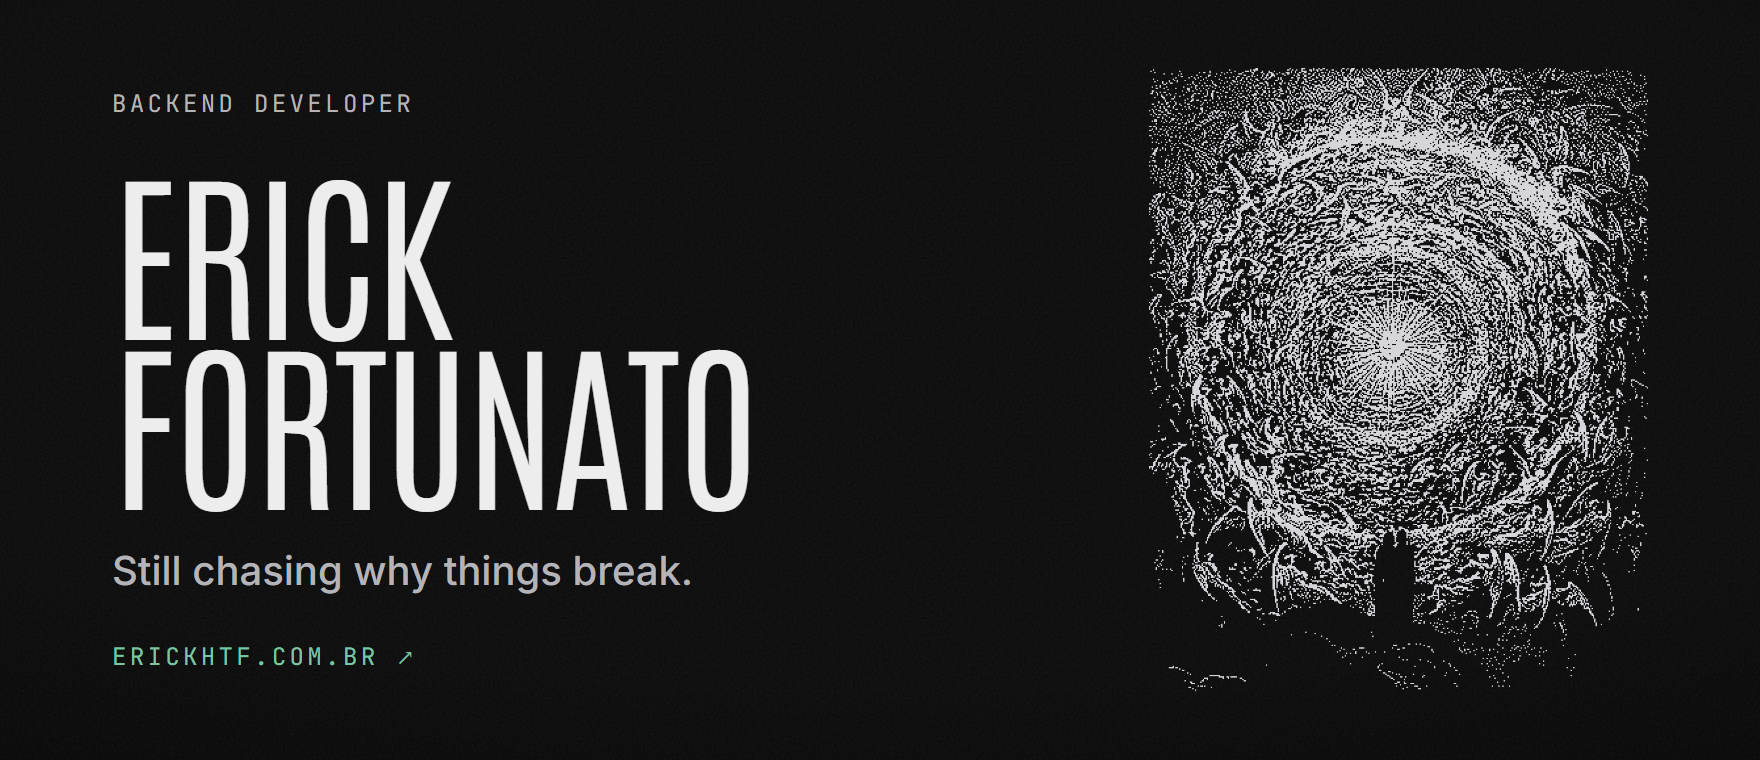
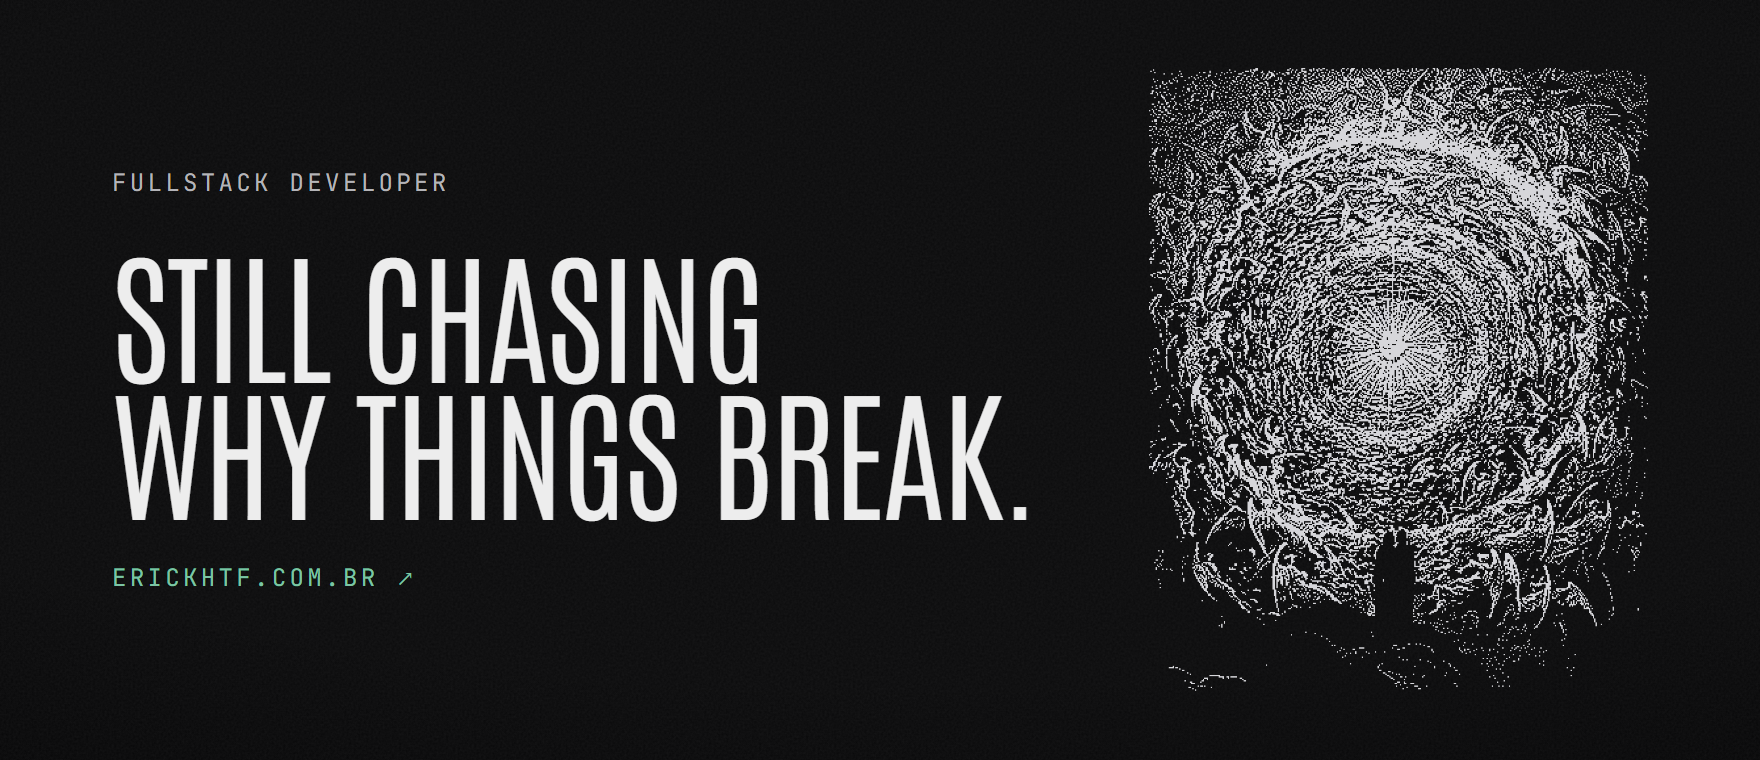
docs: replace the name with the tagline as headline and add contact cards

diff --git a/README.md b/README.md
@@ -1,5 +1,5 @@
 <a href="https://www.erickhtf.com.br">
-  <img src="assets/banner.png" alt="Erick Fortunato — Backend Developer. Still chasing why things break." width="100%">
+  <img src="assets/banner.png" alt="Fullstack Developer. Still chasing why things break." width="100%">
 </a>
 
 ### `01` Stack
@@ -13,4 +13,4 @@
   <img src="assets/footer.gif" alt="Let's talk — erickhtf.com.br" width="100%">
 </a>
 
-[LinkedIn](https://linkedin.com/in/erickhentf) · [erick.henrique4@outlook.com](mailto:erick.henrique4@outlook.com)
+<a href="mailto:erick.henrique4@outlook.com"><img src="assets/contact-email.png" alt="Email — erick.henrique4@outlook.com" width="50%"></a><a href="https://linkedin.com/in/erickhentf"><img src="assets/contact-linkedin.png" alt="LinkedIn — in/erickhentf" width="50%"></a>
